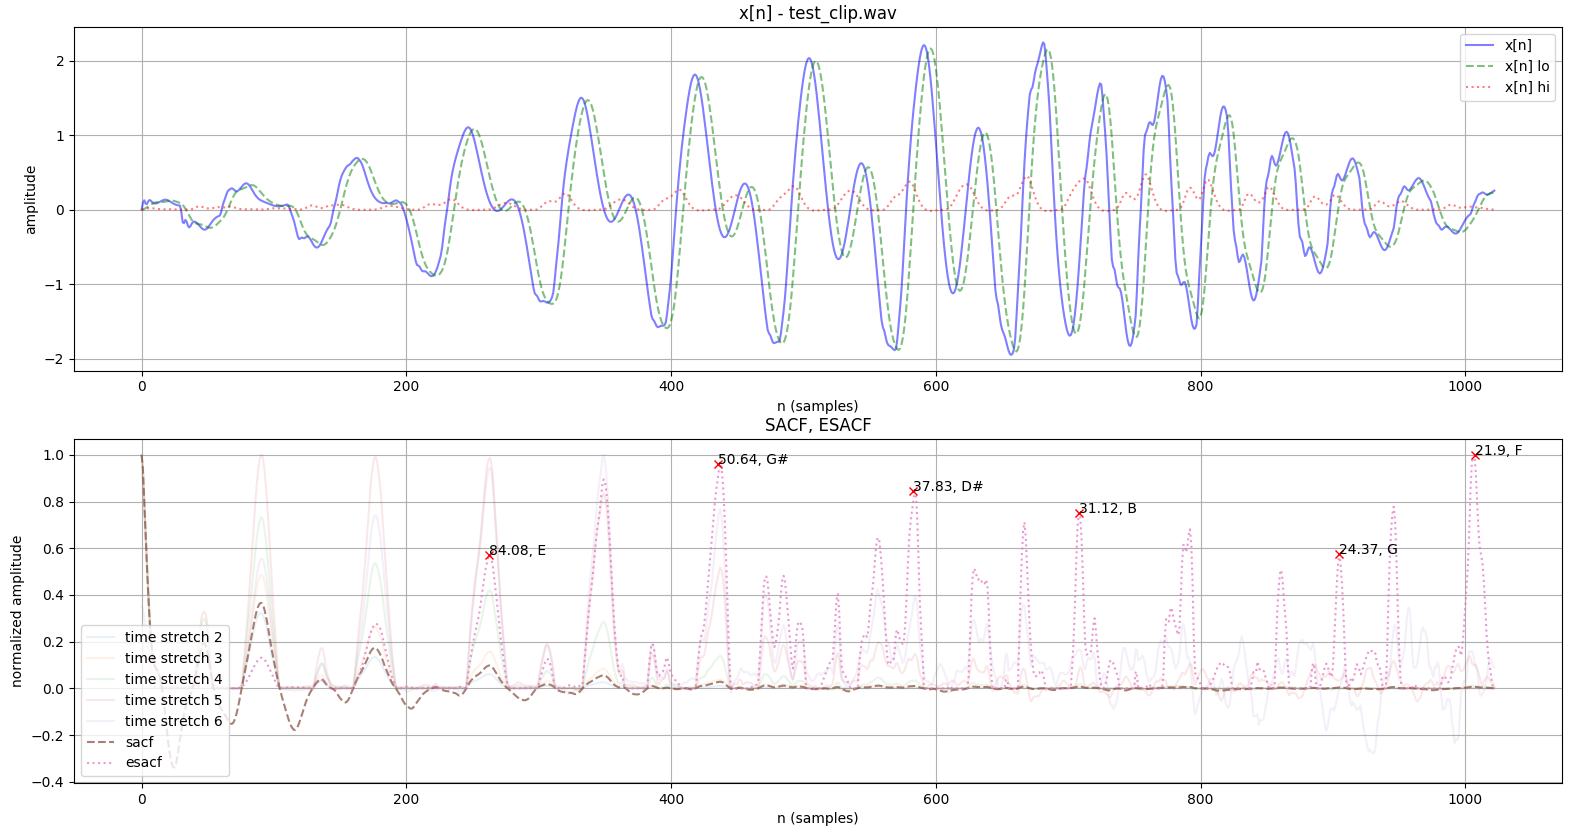
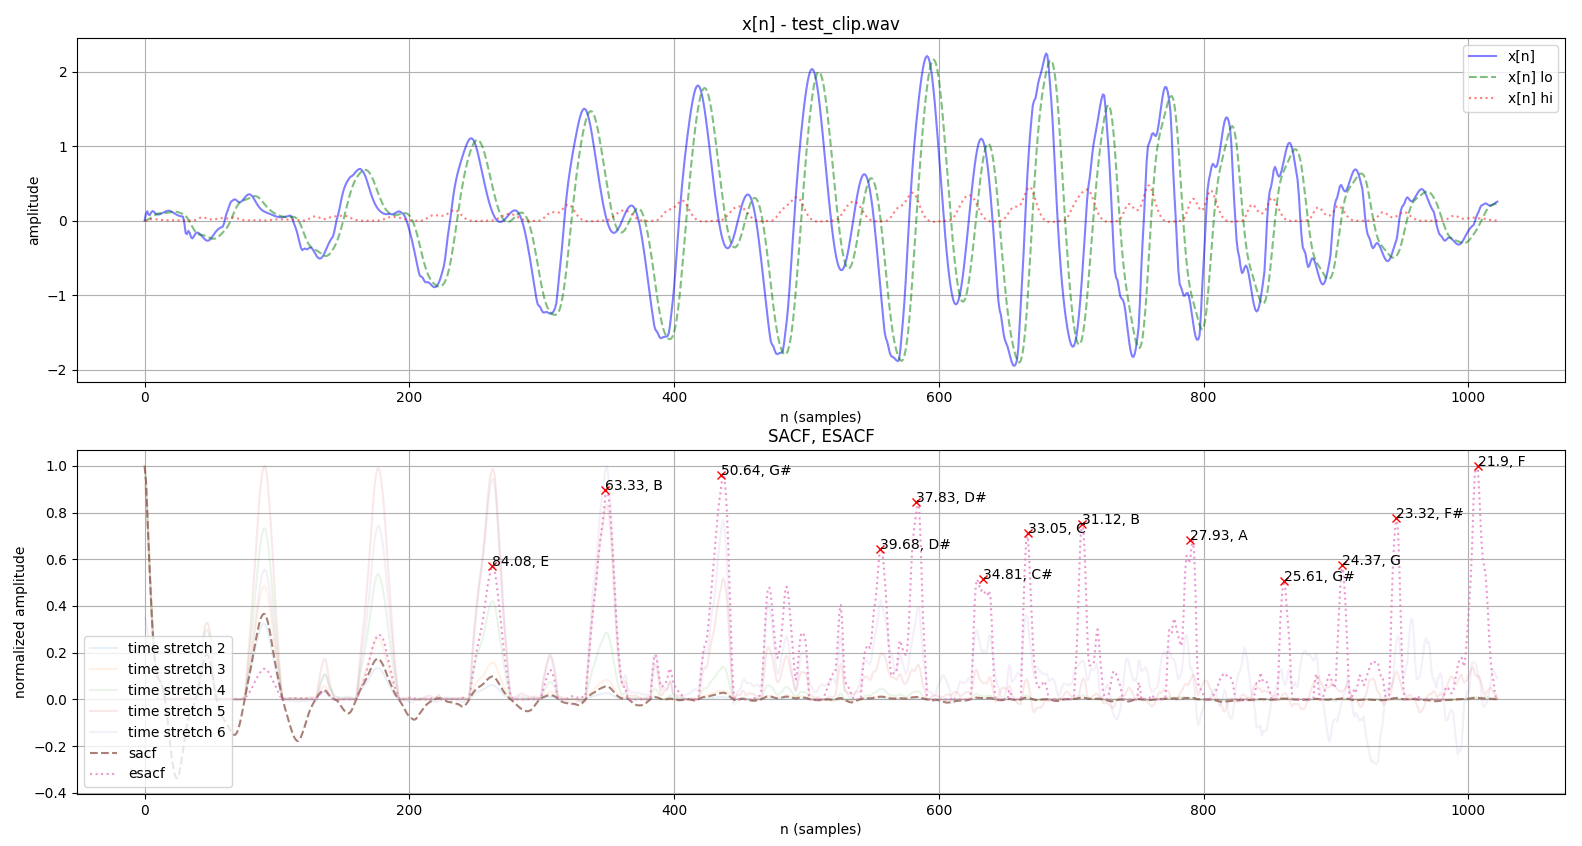
Add plots for harmonic_energy

diff --git a/chord_detection/harmonic_energy.py b/chord_detection/harmonic_energy.py
@@ -1,4 +1,5 @@
 import numpy
+import random
 import scipy
 import scipy.signal
 import librosa
@@ -23,22 +24,22 @@ class MultipitchHarmonicEnergy(Multipitch):
 
     def compute_pitches(self):
         # first, signal frame
-        x = self.x[: self.frame_size]
+        self.x_frame = self.x[: self.frame_size]
 
         # then hamming
-        x = x * scipy.signal.hamming(self.frame_size)
+        self.x_frame = self.x_frame * scipy.signal.hamming(self.frame_size)
 
         # then sqrt of magnitude of DFT
-        x_dft = numpy.sqrt(numpy.absolute(numpy.fft.rfft(x)))
+        self.x_dft = numpy.sqrt(numpy.absolute(numpy.fft.rfft(self.x_frame)))
 
         # chroma vector calculation
-        Cn = [0.0] * 12
         chromagram = Chromagram()
 
         # first C = C3 aka 130.81 Hz
         notes = list(gen_octave(130.81))
 
         divisor_ratio = (self.fs / 4.0) / self.frame_size
+        self.dft_maxes = []
 
         for n in range(12):
             chroma_sum = 0.0
@@ -53,16 +54,64 @@ class MultipitchHarmonicEnergy(Multipitch):
                     k0 = int(k_prime - self.num_bins * harmonic)
                     k1 = int(k_prime + self.num_bins * harmonic)
 
+                    best_ind = None
                     for k in range(k0, k1):
-                        x_dft_max = max(x_dft[k], x_dft_max)
+                        curr_ = self.x_dft[k]
+                        if curr_ > x_dft_max:
+                            x_dft_max = curr_
+                            best_ind = k
 
                     note_sum += x_dft_max * (1.0 / harmonic)
+                    self.dft_maxes.append((k0, best_ind, k1))
                 chroma_sum += note_sum
-            Cn[n] += chroma_sum
-            chromagram[n] = Cn[n]
+            chromagram[n] += chroma_sum
 
         chromagram.normalize()
         return chromagram
 
     def display_plots(self):
-        pass
+        pltlen = self.frame_size
+        samples = numpy.arange(pltlen)
+        dftlen = int(self.x_dft.shape[0] / 2)
+        dft_samples = numpy.arange(dftlen)
+
+        fig1, (ax1, ax2) = plt.subplots(2, 1)
+
+        ax1.set_title("x[n] - {0}".format(self.clip_name))
+        ax1.set_xlabel("n (samples)")
+        ax1.set_ylabel("amplitude")
+        ax1.plot(samples, self.x[:pltlen], "b", alpha=0.3, linestyle=":", label="x[n]")
+        ax1.plot(
+            samples,
+            self.x_frame[:pltlen],
+            "r",
+            alpha=0.4,
+            linestyle="--",
+            label="x[n], frame + ham",
+        )
+        ax1.grid()
+        ax1.legend(loc="upper right")
+
+        ax2.set_title("X (DFT)")
+        ax2.set_xlabel("fft bin")
+        ax2.set_ylabel("magnitude")
+        ax2.plot(dft_samples, self.x_dft[:dftlen], "b", alpha=0.5, label="X(n)")
+        for i, dft_max in enumerate(self.dft_maxes):
+            left, mid, right = dft_max
+            ax2.plot(left, self.x_dft[:dftlen][left], "rx")
+            ax2.plot(mid, self.x_dft[:dftlen][mid], "go")
+            ax2.plot(right, self.x_dft[:dftlen][right], color="purple", marker="x")
+            pitch = self.fs / mid
+            note = freq_to_note(pitch)
+            pitch = round(pitch, 2)
+
+            if (i % 17) == 0:
+                # displaying too many of these clutters the graph
+                ax2.text(
+                    mid, 1.2 * self.x_dft[:dftlen][mid], "{0}\n{1}".format(pitch, note)
+                )
+
+        ax2.grid()
+        ax2.legend(loc="upper right")
+
+        plt.show()

diff --git a/chord_detection/esacf.py b/chord_detection/esacf.py
@@ -12,11 +12,21 @@ from collections import OrderedDict
 
 
 class MultipitchESACF(Multipitch):
-    def __init__(self, audio_path, ham_ms=46.4, k=0.67, n_peaks_elim=6):
+    def __init__(
+        self,
+        audio_path,
+        ham_ms=46.4,
+        k=0.67,
+        n_peaks_elim=6,
+        peak_thresh=0.5,
+        peak_min_dist=10,
+    ):
         super().__init__(audio_path)
         self.ham_samples = int(self.fs * ham_ms / 1000.0)
         self.k = k
         self.n_peaks_elim = n_peaks_elim
+        self.peak_thresh = peak_thresh
+        self.peak_min_dist = peak_min_dist
 
     def display_name(self):
         return "ESACF (Tolonen, Karjalainen)"
@@ -37,13 +47,17 @@ class MultipitchESACF(Multipitch):
         self.x_lo = lowpass_filter(self.x.copy(), self.fs, 1000)
 
         self.x_sacf = sacf([self.x_lo, self.x_hi])
-        self.x_esacf, self.harmonic_elim_plots = _esacf(self.x_sacf, self.n_peaks_elim)
+        self.x_esacf, self.harmonic_elim_plots = esacf(
+            self.x_sacf, self.n_peaks_elim, True
+        )
 
         # the data that's actually interesting
         self.interesting = self.ham_samples
 
         x_esacf_ = self.x_esacf[: self.interesting]
-        self.peak_indices = peakutils.indexes(x_esacf_, thres=0.5, min_dist=100)
+        self.peak_indices = peakutils.indexes(
+            x_esacf_, thres=self.peak_thresh, min_dist=self.peak_min_dist
+        )
 
         self.peak_indices_interp = peakutils.interpolate(
             numpy.arange(self.interesting), x_esacf_, ind=self.peak_indices
@@ -53,7 +67,7 @@ class MultipitchESACF(Multipitch):
         for i, tau in enumerate(self.peak_indices_interp):
             pitch = self.fs / tau
             note = freq_to_note(pitch)
-            chromagram[note] = x_esacf_[self.peak_indices[i]]
+            chromagram[note] += x_esacf_[self.peak_indices[i]]
         chromagram.normalize()
         return chromagram
 
@@ -151,8 +165,8 @@ def sacf(x_channels: typing.List[numpy.ndarray], k=None) -> numpy.ndarray:
     return numpy.real(numpy.fft.ifft(running_sum))
 
 
-def _esacf(
-    x2: numpy.ndarray, n_peaks: int
+def esacf(
+    x2: numpy.ndarray, n_peaks: int, ret_plots: bool
 ) -> typing.Tuple[numpy.ndarray, typing.List[numpy.ndarray]]:
     """
     enhance the SACF with the following procedure
@@ -167,7 +181,8 @@ def _esacf(
         x2stretched = librosa.effects.time_stretch(x2tmp, timescale).copy()
 
         x2stretched.resize(x2tmp.shape)
-        to_plot.append(x2stretched)
+        if ret_plots:
+            to_plot.append(x2stretched)
         x2tmp -= x2stretched
         x2tmp = numpy.clip(x2tmp, 0, None)
 

diff --git a/chord_detection/iterative_f0.py b/chord_detection/iterative_f0.py
@@ -4,6 +4,7 @@ import random
 import scipy
 import scipy.signal
 import scipy.fftpack
+import peakutils
 import librosa
 import matplotlib.pyplot as plt
 from .multipitch import Multipitch, Chromagram
@@ -17,11 +18,13 @@ class MultipitchIterativeF0(Multipitch):
     def __init__(
         self,
         audio_path,
-        frame_size=8192,
-        power=1,
+        frame_size=2 * 8192,
+        power=0.67,
         channels=70,
         epsilon0=2.3,
         epsilon1=0.39,
+        peak_thresh=0.5,
+        peak_min_dist=10,
     ):
         super().__init__(audio_path)
         self.frame_size = frame_size
@@ -35,6 +38,8 @@ class MultipitchIterativeF0(Multipitch):
             229 * (10 ** ((epsilon1 * c + epsilon0) / 21.4) - 1)
             for c in range(channels)
         ]
+        self.peak_thresh = peak_thresh
+        self.peak_min_dist = peak_min_dist
 
     def display_name(self):
         return "Iterative F0 (Klapuri, Anssi)"
@@ -73,16 +78,20 @@ class MultipitchIterativeF0(Multipitch):
         chromagram = Chromagram()
 
         for frame, U in enumerate(self.Ut):
-            peaks, _ = scipy.signal.find_peaks(U)
-            peak_prominence, _, _ = scipy.signal.peak_prominences(U, peaks)
+            peak_indices = peakutils.indexes(
+                U, thres=self.peak_thresh, min_dist=self.peak_min_dist
+            )
+            print(peak_indices)
 
-            max_peak_prominences = numpy.argpartition(peak_prominence, -1)[-1:]
-
-            for i in max_peak_prominences:
-                pitch = self.fs / peaks[i]
+            peak_indices_interp = peakutils.interpolate(
+                numpy.arange(U.shape[0]), U, ind=peak_indices
+            )
+            for i, tau in enumerate(peak_indices_interp):
+                pitch = self.fs / tau
                 note = freq_to_note(pitch)
-                chromagram[note] += peak_prominence[i]
+                chromagram[note] += U[peak_indices[i]]
 
+        print(chromagram)
         chromagram.normalize()
         return chromagram
 

diff --git a/multipitch.py b/multipitch.py
@@ -24,7 +24,10 @@ if __name__ == "__main__":
         help="display intermediate plots with matplotlib",
     )
     parser.add_argument(
-        "--method", type=int, help="choose the method (see the README)", default=1
+        "--method",
+        type=int,
+        help="-1 = all, 1 = ESACF, 2 = Harmonic Energy, 3 = Iterative F0",
+        default=1,
     )
     parser.add_argument("input_path", help="Path to WAV audio clip")
     args = parser.parse_args()

diff --git a/chord_detection/multipitch.py b/chord_detection/multipitch.py
@@ -61,6 +61,8 @@ class Chromagram(Sequence):
 
     def normalize(self):
         chromagram_max = max(self.c.values())
+        if chromagram_max == 0.0:
+            return
 
         for k in self.c.keys():
             self.c[k] = round(self.c[k] / chromagram_max, 3)

diff --git a/README.md b/README.md
@@ -13,44 +13,24 @@ Harmonic Energy (Stark, Plumbley)
 001000100000
 ```
 
-Run outside of Docker by installing requirements.txt:
-
-```
-shanssian:chord-detection $ python3.7 multipitch.py -h
-usage: chord-detection [-h] [--key KEY] [--bitstring] [--displayplots]
-                       [--method METHOD]
-                       input_path
-
-Collection of chord-detection techniques
-
-positional arguments:
-  input_path       Path to WAV audio clip
-
-optional arguments:
-  -h, --help       show this help message and exit
-  --key KEY        estimate the key of input audio clip
-  --bitstring      emit a 12-note chromagram bitstring
-  --displayplots   display intermediate plots with matplotlib
-  --method METHOD  choose the method (see the README)
-```
+Run outside of Docker (e.g. for displaying matplotlib plots with `--displayplots`, running unittests with `python3.7 -m unittest`) by installing requirements.txt in Python 3.7.
 
 ### Methods
-
-Use the list numbering (e.g. ESACF = 1) as values for the `--method` argument.
 
 #### ESACF
 
 ![esacf](.github/esacf_demo.png)
 
-_[1] T. Tolonen and M. Karjalainen, "A computationally efficient multipitch analysis model," in IEEE Transactions on Speech and Audio Processing, vol. 8, no. 6, pp. 708-716, Nov. 2000._
+_T. Tolonen and M. Karjalainen, "A computationally efficient multipitch analysis model," in IEEE Transactions on Speech and Audio Processing, vol. 8, no. 6, pp. 708-716, Nov. 2000._
 
-_[2] V. Zenz and A. Rauber, "Automatic Chord Detection Incorporating Beat and Key Detection," 2007 IEEE International Conference on Signal Processing and Communications, Dubai, 2007, pp. 1175-1178._
+_V. Zenz and A. Rauber, "Automatic Chord Detection Incorporating Beat and Key Detection," 2007 IEEE International Conference on Signal Processing and Communications, Dubai, 2007, pp. 1175-1178._
 
 #### Harmonic energy chromagram ([3])
 
+![harmeng](.github/harmeng_demo.png)
 
-_[3] M Stark, Adam and Plumbley, Mark., "Real-Time Chord Recognition for Live Performance," in Proceedings of the 2009 International Computer Music Conference (ICMC 2009), Montreal, Canada, 16-21 August 2009._
+_M Stark, Adam and Plumbley, Mark., "Real-Time Chord Recognition for Live Performance," in Proceedings of the 2009 International Computer Music Conference (ICMC 2009), Montreal, Canada, 16-21 August 2009._
 
 #### Iterative F0 ([4])
 
-_[4] Klapuri, Anssi, "Multipitch Analysis of Polyphonic Music and Speech Signals Using an Auditory Model," IEEE TRANSACTIONS ON AUDIO, SPEECH, AND LANGUAGE PROCESSING, VOL. 16, NO. 2, FEBRUARY 2008 255._
+_Klapuri, Anssi, "Multipitch Analysis of Polyphonic Music and Speech Signals Using an Auditory Model," IEEE TRANSACTIONS ON AUDIO, SPEECH, AND LANGUAGE PROCESSING, VOL. 16, NO. 2, FEBRUARY 2008 255._
